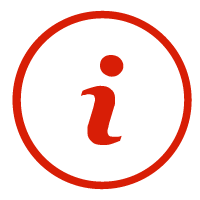
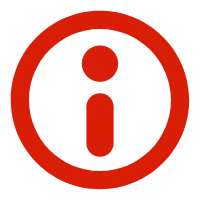
界面基本完成

diff --git a/sprit/sprite.cpp b/sprit/sprite.cpp
@@ -6,13 +6,15 @@
 Sprite::Sprite(QWidget *parent)
     : QWidget(parent)
 {
+    setWindowFlags(Qt::Tool);
     move(1200,600);
-    act1 = new QAction(tr("你好！我是你的桌面精灵"), this);
-    act2 = new QAction(tr("开发中"), this);
-    act3 = new QAction(tr("开发中"), this);
+    act1 = new QAction(tr("你好！我是你的桌面精灵小圆"), this);
+    act2 = new QAction(tr(""), this);
+    act3 = new QAction(tr(""), this);
     menu=new QMenu(this);
     createWidget();
     createBtnWidget();
+    createTrayIcon();
     menu->addAction(wact);
     menu->addAction(act1); //添加菜单项1
     menu->addAction(act2); //添加菜单项2
@@ -31,6 +33,8 @@ Sprite::Sprite(QWidget *parent)
     timer=new QTimer(this);
     timer->start(300);
     connect(timer,SIGNAL(timeout()),this,SLOT(change()));
+    connect(btn2,&QPushButton::clicked,[=](){this->close();delete trayIcon;});
+    connect(btn3,&QPushButton::clicked,[=](){this->hide();ismin=true;});
 }
 
 Sprite::~Sprite()
@@ -97,7 +101,12 @@ void Sprite::mouseReleaseEvent(QMouseEvent *event)
 
 void Sprite::createWidget()
 {
-    label1=new QLabel(tr("你好！很高兴见到你！"));
+
+    label1=new QLabel;
+    label1->setFixedSize(60,60);
+    QPixmap pix(":/img/others/icon.png");
+    label1->setScaledContents(true);
+    label1->setPixmap(pix);
     widgetMenu=new QWidget(this);
     layout1=new QVBoxLayout;
     layout1->addWidget(label1,0,Qt::AlignLeft);
@@ -112,15 +121,45 @@ void Sprite::createBtnWidget()
     widgetMenu2=new QWidget(this);
     btn1=new QPushButton(QIcon(":/img/others/about.png"),tr(""));
     btn2=new QPushButton(QIcon(":/img/others/exit.png"),tr(""));
+    btn3=new QPushButton(QIcon(":/img/others/mini.png"),tr(""));
     btn1->setStyleSheet("background:transparent");
     btn2->setStyleSheet("background:transparent");
+    btn3->setStyleSheet("background:transparent");
     btn1->setFixedSize(25,25);
     btn2->setFixedSize(25,25);
+    btn3->setFixedSize(25,25);
     QHBoxLayout *layoutH=new QHBoxLayout;
     layoutH->addWidget(btn1,0,Qt::AlignCenter);
     layoutH->addWidget(btn2,0,Qt::AlignCenter);
+    layoutH->addWidget(btn3,0,Qt::AlignCenter);
     layoutH->setSpacing(5);
     widgetMenu2->setLayout(layoutH);
     wact2=new QWidgetAction(menu);
     wact2->setDefaultWidget(widgetMenu2);
+}
+void Sprite::createTrayIcon()
+{
+    trayIcon=new QSystemTrayIcon(this);
+    QIcon icon(":/img/others/icon.png");
+    trayIcon->setIcon(icon);
+    trayIcon->show();
+    trayIcon->setContextMenu(menu);
+
+    connect(trayIcon,&QSystemTrayIcon::activated,this,&Sprite::TrayIconAction);
+
+}
+void Sprite::TrayIconAction(QSystemTrayIcon::ActivationReason reason)
+{
+    if(reason == QSystemTrayIcon::Trigger)
+    {
+        if(ismin == true)
+        {
+            this->show();
+            ismin = false;
+        }else
+        {
+            this->hide();
+            ismin = true;
+        }
+    }
 }

diff --git a/sprit/sprite.h b/sprit/sprite.h
@@ -2,6 +2,7 @@
 #define SPRITE_H
 
 #include <QWidget>
+#include <QIcon>
 #include <QPainter>
 #include <QPixmap>
 #include <QMouseEvent>
@@ -17,6 +18,7 @@
 #include <QHBoxLayout>
 #include <QWidgetAction>
 #include <QPushButton>
+#include <QSystemTrayIcon>
 class Sprite : public QWidget
 {
     Q_OBJECT
@@ -25,6 +27,7 @@ public:
     Sprite(QWidget *parent = 0);
     void createWidget();
     void createBtnWidget();
+    void TrayIconAction(QSystemTrayIcon::ActivationReason reason);
     ~Sprite();
 private:
     QPixmap *pix;
@@ -47,6 +50,9 @@ private:
     QWidgetAction *wact2;
     QPushButton *btn1;
     QPushButton *btn2;
+    QPushButton *btn3;
+    QSystemTrayIcon *trayIcon;
+    bool ismin;
 public slots:
     void change();
 protected:
@@ -54,6 +60,7 @@ protected:
     void mousePressEvent(QMouseEvent *);
     void mouseMoveEvent(QMouseEvent *);
     void mouseReleaseEvent(QMouseEvent *);
+    void createTrayIcon();
 
 };
 
